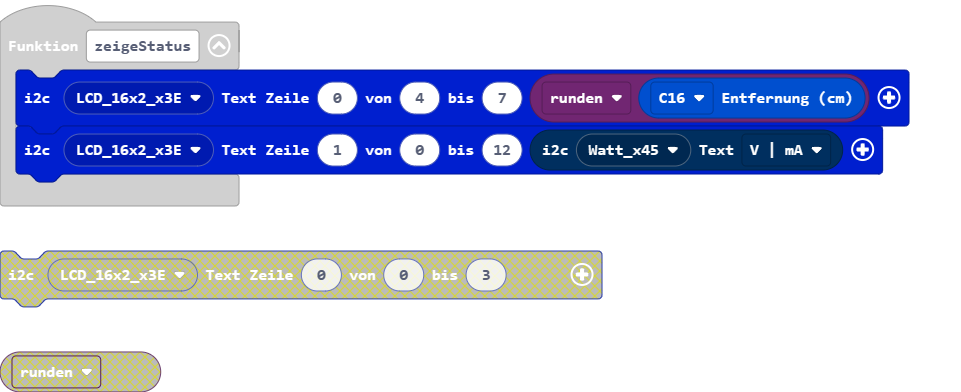
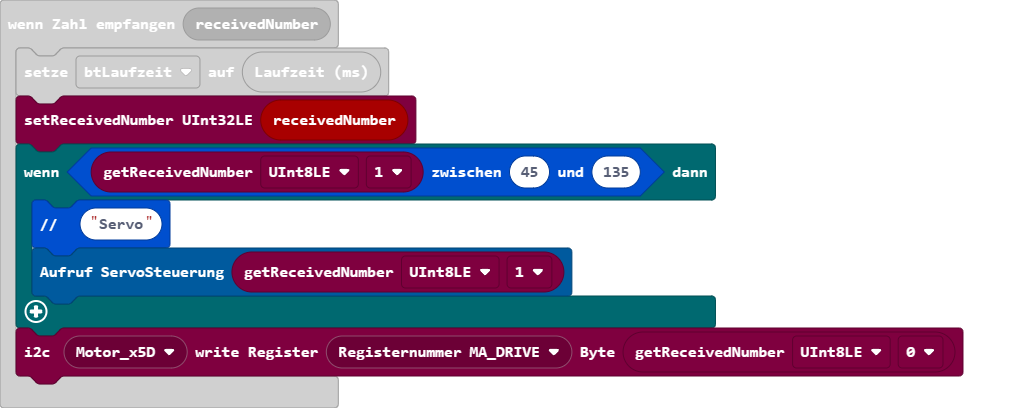
Aktualisiere pxt.json, main.blocks, main.ts

diff --git a/main.ts b/main.ts
@@ -1,9 +1,11 @@
 radio.onReceivedNumber(function (receivedNumber) {
     btLaufzeit = input.runningTime()
-    if (bit.between(receivedNumber, 45, 135)) {
+    qwiicmotor.setReceivedNumber(receivedNumber)
+    if (bit.between(qwiicmotor.getReceivedNumber(NumberFormat.UInt8LE, qwiicmotor.eOffset.z1), 45, 135)) {
         bit.comment("Servo")
-        ServoSteuerung(receivedNumber)
+        ServoSteuerung(qwiicmotor.getReceivedNumber(NumberFormat.UInt8LE, qwiicmotor.eOffset.z1))
     }
+    qwiicmotor.writeRegister(qwiicmotor.qwiicmotor_eADDR(qwiicmotor.eADDR.Motor_x5D), qwiicmotor.qwiicmotor_eRegister(qwiicmotor.eRegister.MA_DRIVE), qwiicmotor.getReceivedNumber(NumberFormat.UInt8LE, qwiicmotor.eOffset.z0))
 })
 input.onButtonEvent(Button.A, input.buttonEventClick(), function () {
     pins.digitalWritePin(DigitalPin.P0, 1)
